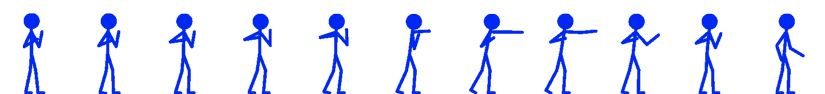
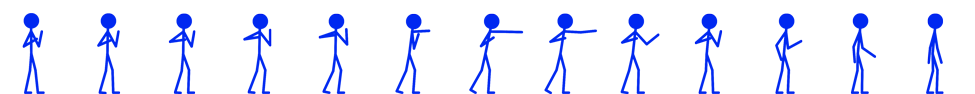
fix punching animation

diff --git a/project/Master.cpp b/project/Master.cpp
@@ -89,12 +89,17 @@ void Master::play() {
         }
 
         while (person.getState() == 5) {
-            person.setCurrPunch(person.getCurrPunch() + .5);
-            if (person.getCurrPunch() < 11)
+            if (person.getCurrPunch() < 6)
+                person.setCurrPunch(person.getCurrPunch() + .4);
+            else if (person.getCurrPunch() < 8)
+                person.setCurrPunch(person.getCurrPunch() + .2);
+            else
+                person.setCurrPunch(person.getCurrPunch() + .8);
+            if (person.getCurrPunch() < 13)
                 update();
             else {
                 person.setCurrPunch(0);
-                break;
+                person.setState(0);
             }
         }
         person.setState(0);

diff --git a/project/Person.cpp b/project/Person.cpp
@@ -75,7 +75,7 @@ void Person::loadMedia() {
     }
 
     PunchingTexture.loadFromFile("imgs/figs/punching.png");
-    for (int i=0;i<11;i++) {
+    for (int i=0;i<13;i++) {
         Punching[i].x = 75*i;
         Punching[i].y = 0;
         Punching[i].w = 75;
@@ -95,7 +95,7 @@ void Person::draw(int camX) {
     else if (State == 4)
         RollingTexture.render(XPos-camX,YPos,&Rolling[int(CurrRoll)],MoveDir);
     else if (State == 5)
-        PunchingTexture.render(XPos-camX,YPos,&Rolling[int(CurrPunch)],MoveDir);
+        PunchingTexture.render(XPos-camX,YPos,&Punching[int(CurrPunch)],MoveDir);
 }
 
 double Person::getXPos() const {

diff --git a/project/Person.h b/project/Person.h
@@ -57,7 +57,7 @@ private:
     Texture DuckingTexture;
     SDL_Rect Rolling[8];
     Texture RollingTexture;
-    SDL_Rect Punching[11];
+    SDL_Rect Punching[13];
     Texture PunchingTexture;
 
     double XPos;
